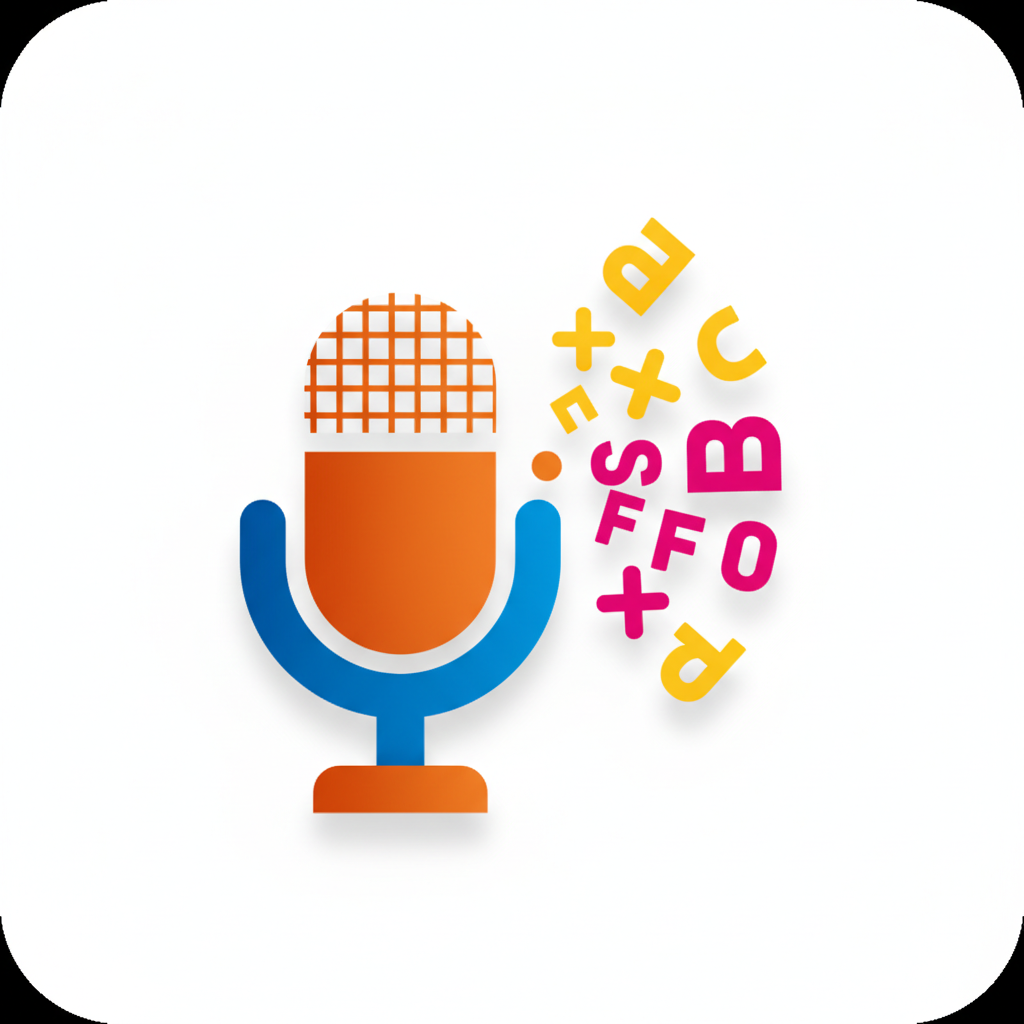
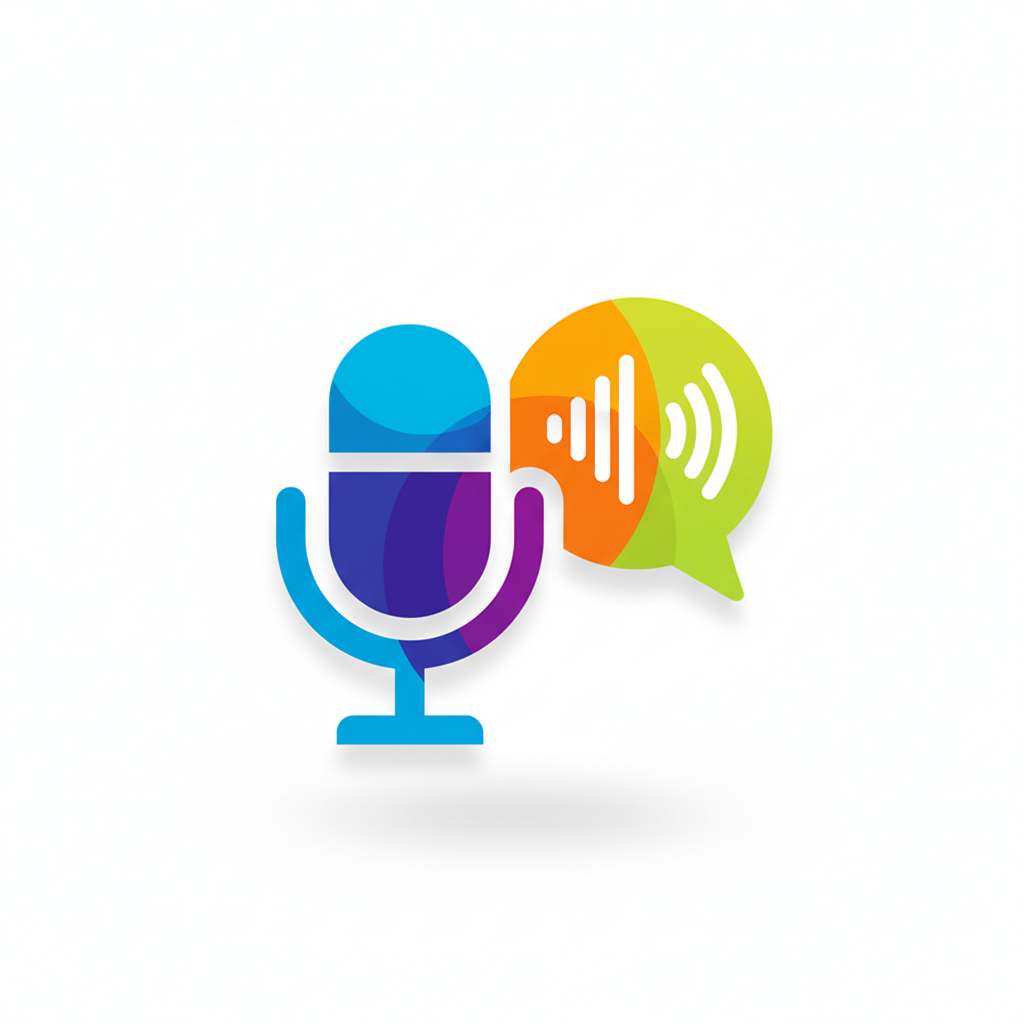
AI Studio update 2026-01-14 20:51

diff --git a/index.html b/index.html
@@ -11,8 +11,8 @@
     <meta name="apple-mobile-web-app-capable" content="yes">
     <meta name="apple-mobile-web-app-status-bar-style" content="default">
     <meta name="apple-mobile-web-app-title" content="Record SOP">
-    <link rel="apple-touch-icon" href="/speech2text.png">
-    <link rel="icon" type="image/png" href="/speech2text.png">
+    <link rel="apple-touch-icon" href="/speech2text.png?v=2">
+    <link rel="icon" type="image/png" href="/speech2text.png?v=2">
 
     <script src="https://cdn.tailwindcss.com"></script>
     <link href="https://fonts.googleapis.com/css2?family=Inter:wght@300;400;500;600;700&display=swap" rel="stylesheet">

diff --git a/sw.js b/sw.js
@@ -1,9 +1,9 @@
-const CACHE_NAME = 'sop-app-v3';
+const CACHE_NAME = 'sop-app-v5';
 const urlsToCache = [
   '/',
   '/index.html',
   '/manifest.json',
-  '/speech2text.png'
+  '/speech2text.png?v=2'
 ];
 
 self.addEventListener('install', (event) => {
